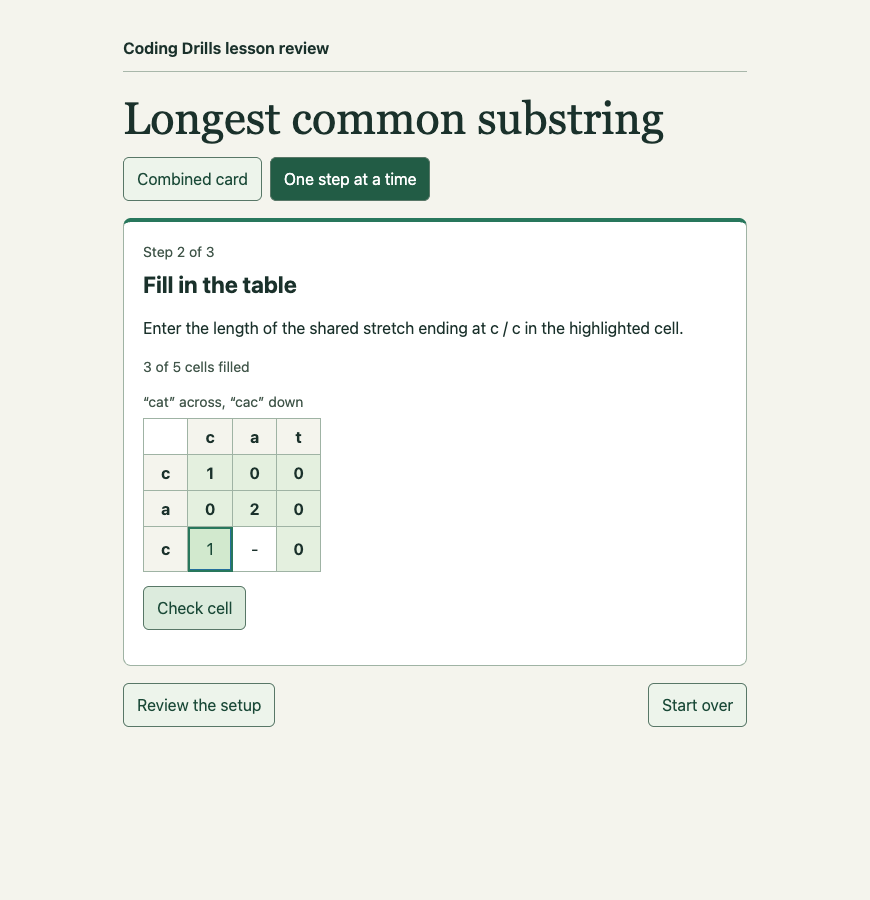
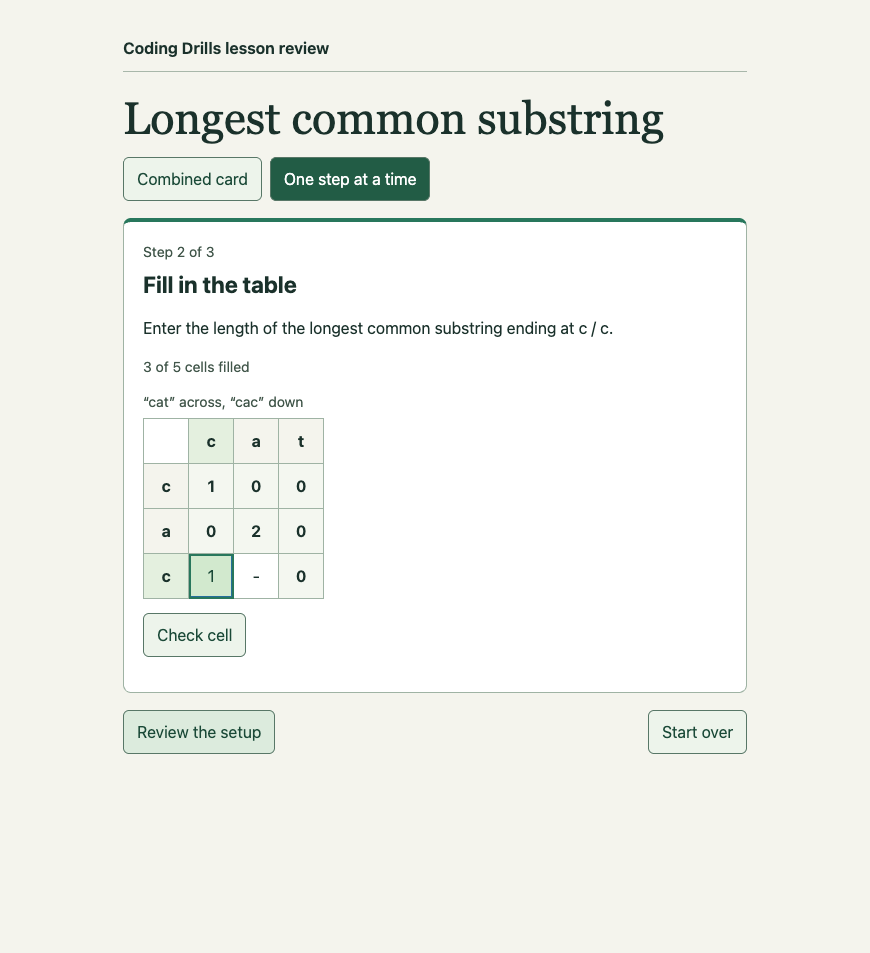
fix: use standard substring terminology throughout the demo

Changed region(s): [[0.1241, 0.0933, 0.869, 0.8089], [0.1241, 0.0311, 0.3724, 0.0622]]

diff --git a/docs/prototypes/learning-harness/granularity.html b/docs/prototypes/learning-harness/granularity.html
@@ -3,7 +3,7 @@
 <head>
 <meta charset="utf-8">
 <meta name="viewport" content="width=device-width, initial-scale=1">
-<title>Lesson granularity | Coding Drills</title>
+<title>Longest common substring | Coding Drills</title>
 <style>
 :root { color-scheme: light; font: 16px/1.5 "DM Sans", system-ui, sans-serif; background: #f4f4ed; color: #1a312b; }
 * { box-sizing: border-box; }
@@ -60,13 +60,13 @@ const combined = {
  title: "Which rule gives the right result?",
  context: 'Compare “cat” and “cac.” The top-left four cells are filled. The question mark shows where the last letters meet.',
  grid: [...board, openingCells.map((value, index) => index === 8 ? "?" : value)],
- question: "What rule fills the question mark, and where should we look for the answer once the table is complete?",
+ question: "What value goes in the question mark, and where will we find the length of the longest common substring?",
  options: ["Use zero. Take the largest cell anywhere.", "Use the larger of the cells above and to the left. Take the bottom-right cell.", "Use zero. Take the bottom-right cell.", "Copy the cell one row up and one column left. Take the largest cell anywhere."],
  feedback: [
-  "A mismatch ends the current run. The largest run may have ended earlier, so scan all the cells.",
-  "Keeping the larger neighbor lets a run survive a gap. Check what a substring allows between two letters.",
-  "Zero is right for the mismatch. The corner only measures the run ending at the last pair, so it can miss a longer run that ended earlier.",
-  "The largest cell is right for the answer. A mismatch ends the current run, so copying the diagonal would carry a run through a gap."
+  "The mismatch gives zero. The longest common substring may end at an earlier pair, so look for the largest value in the whole table.",
+  "Keeping the larger neighbor would let the count carry across a gap. A substring uses consecutive characters.",
+  "Zero is right for the mismatch. The bottom-right cell measures only the longest common substring ending at the last pair.",
+  "The largest cell is right for the answer. The last letters differ, so no common substring ends at that pair. Its value is zero."
  ],
  right: 0
 };
@@ -75,12 +75,12 @@ const cellMeaning = {
   title: "What does the highlighted cell measure?",
   grid: [...board, openingCells],
   highlightIndex: longestCell,
-  options: ['The longest shared stretch anywhere in the words', 'The length of the shared stretch ending at this pair'],
+  options: ['The length of the longest common substring anywhere in the words', 'The length of the longest common substring ending at this pair'],
   right: 1,
   feedback: 'The 2 counts the two matching letters that end at the highlighted pair. A different pair can have a different length.',
   retry: {
    grid: ["pen", "pet", openingCells],
-   options: ['The length of the shared stretch ending at this pair', 'The longest shared stretch anywhere in the words'],
+   options: ['The length of the longest common substring ending at this pair', 'The length of the longest common substring anywhere in the words'],
    right: 0
   }
 };
@@ -163,12 +163,12 @@ function showSetup(focus=true){
  const savedCard = document.createDocumentFragment();
  if(mode)savedCard.append(...card.childNodes);
  card.replaceChildren();
- const h = heading("Find a shared stretch of letters");
- add("p", 'Given two words, find the longest stretch that appears in both. The letters must stay together and in order. For example, “nap” and “map” share “ap,” so the answer is 2.');
+ const h = heading("Find the longest common substring");
+ add("p", 'A substring is a sequence of consecutive characters. The longest common substring is the longest one that appears in both words. For example, “ap” is the longest common substring of “nap” and “map.” Its length is 2.');
  add("h3", "Use a table to remember shorter matches");
- add("p", 'Put one word across the top and the other down the left. Each cell measures the shared stretch that ends at those two letters. Dashes mark cells we haven’t filled.');
+ add("p", 'Put one word across the top and the other down the left. Each cell stores the length of the longest common substring ending at those two letters. Dashes mark cells we haven’t filled.');
  showGrid(["sh","sh",["1","","","2"]], "“ship” across, “shin” down");
- add("p", 'At s / s the run is “s,” so the cell is 1. The cell for h / h is 2 because the two h’s extend the run “s” by one letter. The 1 is one row up and one column left. That’s the diagonal cell.');
+ add("p", 'At s / s the common substring is “s,” so the cell is 1. The two h’s extend “s” to “sh,” so the cell for h / h is 2. The 1 is one row up and one column left. That’s the diagonal cell.');
  add("p", 'Reusing a smaller answer that we’ve already saved is the idea behind dynamic programming here. Now work out what happens when two letters differ and how to read the final answer.');
  const choices = add("div", "", card, "choices");
  if(mode)control("Return to the lesson",()=>{
@@ -187,13 +187,13 @@ function completeBoard(){
  return showGrid([...board, solution], boardCaption(board), {answerIndex:longestCell});
 }
 function chooseResult(){
- const h=heading(solved ? "Longest shared stretch" : "Find the result");
+ const h=heading(solved ? "Longest common substring found" : "Find the result");
  if(solved){
   completeBoard();
-  add("p", 'The largest value is 2 at a / a. It records the shared stretch “ca.”');
+  add("p", 'The largest value is 2 at a / a. The longest common substring is “ca”.');
   control("Compare the combined card",()=>start("combined"),card);
  }else{
-  add("p","Select the cell that holds the longest shared stretch.");
+  add("p","Select the cell that holds the length of the longest common substring.");
   const feedback=add("p","");
   feedback.id="result-feedback";
   feedback.setAttribute("role","status");
@@ -202,7 +202,7 @@ function chooseResult(){
     if(index===longestCell){solved=true;render();return}
     table.querySelector('[aria-pressed="true"]')?.setAttribute("aria-pressed","false");
     picked.setAttribute("aria-pressed","true");
-    feedback.textContent="That cell only measures the stretch ending at its pair. Compare its value with the rest of the table.";
+    feedback.textContent="That cell measures the longest common substring ending at its pair of letters. Compare its value with the rest of the table.";
    }
   });
   card.append(feedback);
@@ -217,8 +217,8 @@ function fillTable(){
  const column=across[activeIndex%across.length];
  heading(boardRetry ? "Try a fresh mismatch" : "Fill in the table");
  add("p",boardRetry
-  ? 'In “bat” and “bag,” the letters t and g come after the shared stretch “ba.” What belongs in their cell?'
-  : "Enter the length of the shared stretch ending at "+column+" / "+row+" in the highlighted cell.");
+  ? 'In “bat” and “bag,” both words start with “ba.” What belongs in the cell for t / g?'
+  : "Enter the length of the longest common substring ending at "+column+" / "+row+".");
  if(!boardRetry)add("p",filled+" of "+fillOrder.length+" cells filled",card,"small");
  const form=add("form","");
  const table=showGrid([across,down,values],boardCaption([across,down]), {parent:form,activeIndex});
@@ -241,7 +241,7 @@ function fillTable(){
    return;
   }
   feedback.textContent=expected==="0"
-   ? "These two letters differ. A matching stretch can’t end at this pair."
+   ? "These two letters differ. No common substring ends at this pair."
    : "The two letters match. The top word starts here, so there’s no earlier pair to extend.";
   input.setAttribute("aria-invalid","true");
   if(!boardRetry&&filled===0&&!form.querySelector("#fresh-mismatch")){
@@ -280,7 +280,7 @@ function render(){
   if(mode==="combined"){
    if(correct){
     table.replaceWith(completeBoard());
-    add("p", 'The highlighted 2 represents “ca.”',result);
+    add("p", 'The highlighted 2 gives the length of the longest common substring, “ca”.',result);
    }else{
     control("Try again",render,result);
    }
